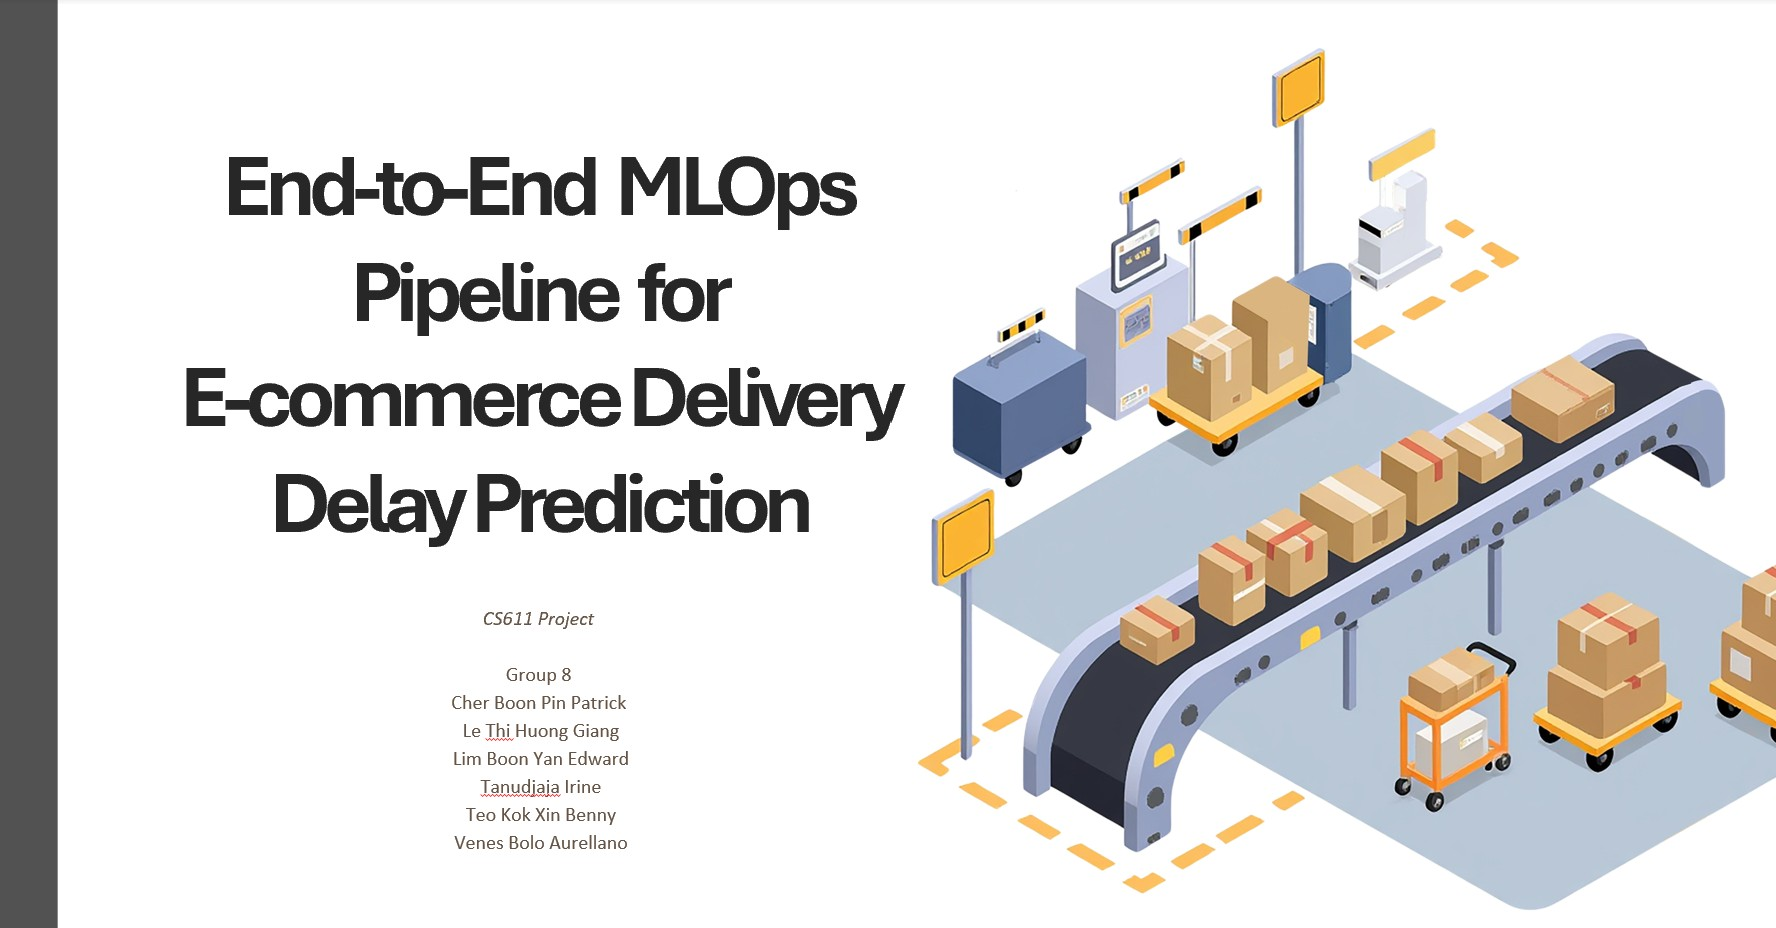
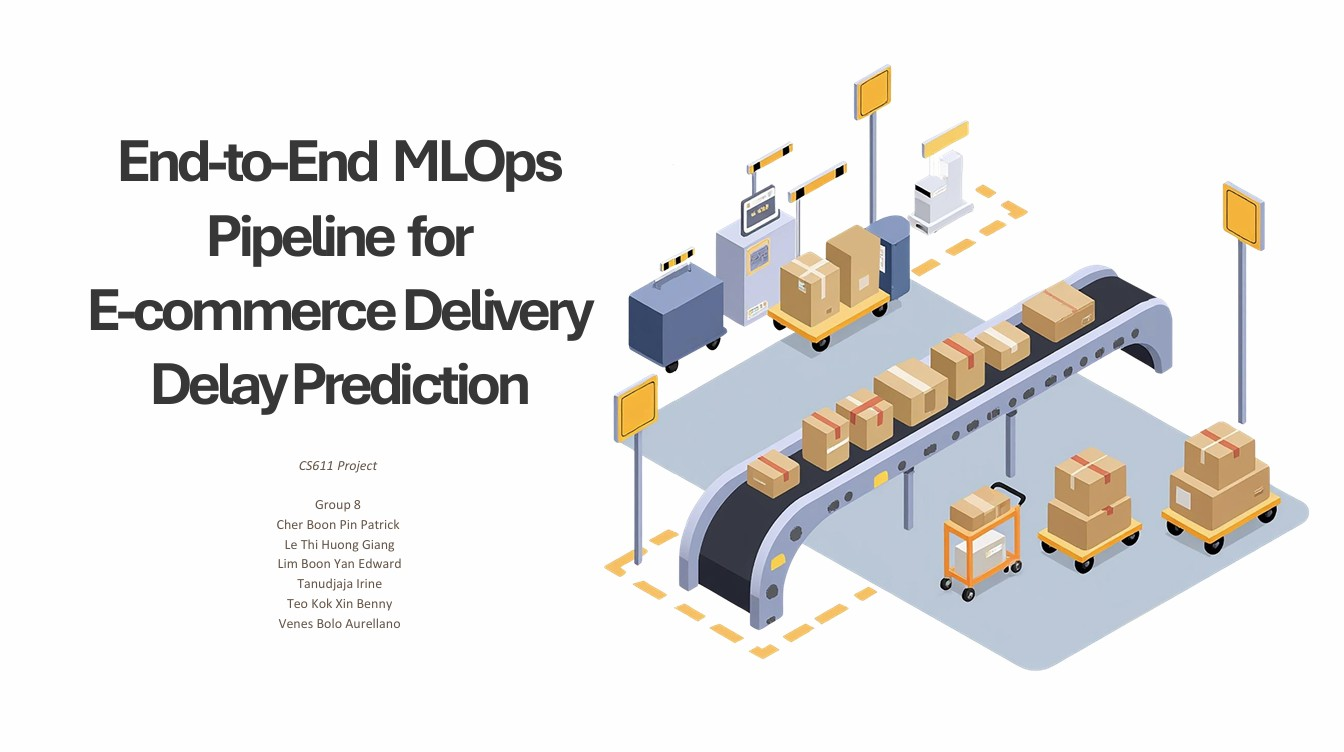
fix the UI in mobile

diff --git a/assets/css/styles.css b/assets/css/styles.css
@@ -8,7 +8,7 @@
   --border: #e0e3eb;
   --shadow: 0 20px 60px rgba(31, 31, 31, 0.08);
   --project-image-width: 32%;
-  --project-image-height: 300px;
+  --project-image-aspect-ratio: 16 / 9;
 }
 
 * {
@@ -333,8 +333,8 @@ main {
 
 .project-card__image {
   width: 100%;
-  height: var(--project-image-height);
-  background-size: cover;
+  aspect-ratio: var(--project-image-aspect-ratio);
+  background-size: contain;
   background-position: center;
   background-repeat: no-repeat;
   background-color: #fff;
@@ -649,8 +649,23 @@ main {
 }
 
 @media (max-width: 900px) {
+  .site-header {
+    align-items: flex-start;
+    flex-direction: column;
+    gap: 0.85rem;
+  }
+
   .site-nav {
-    display: none;
+    display: flex;
+    flex-wrap: wrap;
+    gap: 0.45rem;
+    width: 100%;
+  }
+
+  .site-nav a {
+    border: 1px solid var(--border);
+    font-size: 0.88rem;
+    padding: 0.35rem 0.55rem;
   }
 
   .hero {
@@ -659,6 +674,7 @@ main {
 
   main {
     padding-inline: 1.5rem;
+    padding-top: 180px;
   }
 
   .project-card {

diff --git a/blog.html b/blog.html
@@ -7,7 +7,7 @@
     <link rel="preconnect" href="https://fonts.googleapis.com" />
     <link rel="preconnect" href="https://fonts.gstatic.com" crossorigin />
     <link href="https://fonts.googleapis.com/css2?family=Inter:wght@400;500;600;700&display=swap" rel="stylesheet"/>
-    <link rel="stylesheet" href="assets/css/styles.css?v=6" />
+    <link rel="stylesheet" href="assets/css/styles.css" />
     <meta name="description" content="Blog articles by Giang Le (Stella) on analytics, technology, and case studies."/>
   </head>
   <body id="top" data-page="blog">

diff --git a/projects.html b/projects.html
@@ -7,7 +7,7 @@
     <link rel="preconnect" href="https://fonts.googleapis.com" />
     <link rel="preconnect" href="https://fonts.gstatic.com" crossorigin />
     <link href="https://fonts.googleapis.com/css2?family=Inter:wght@400;500;600;700&display=swap" rel="stylesheet"/>
-    <link rel="stylesheet" href="assets/css/styles.css?v=9" />
+    <link rel="stylesheet" href="assets/css/styles.css" />
     <meta name="description" content="Analytics and AI project showcase by Giang Le (Stella)."/>
   </head>
   <body id="top" data-page="projects">
